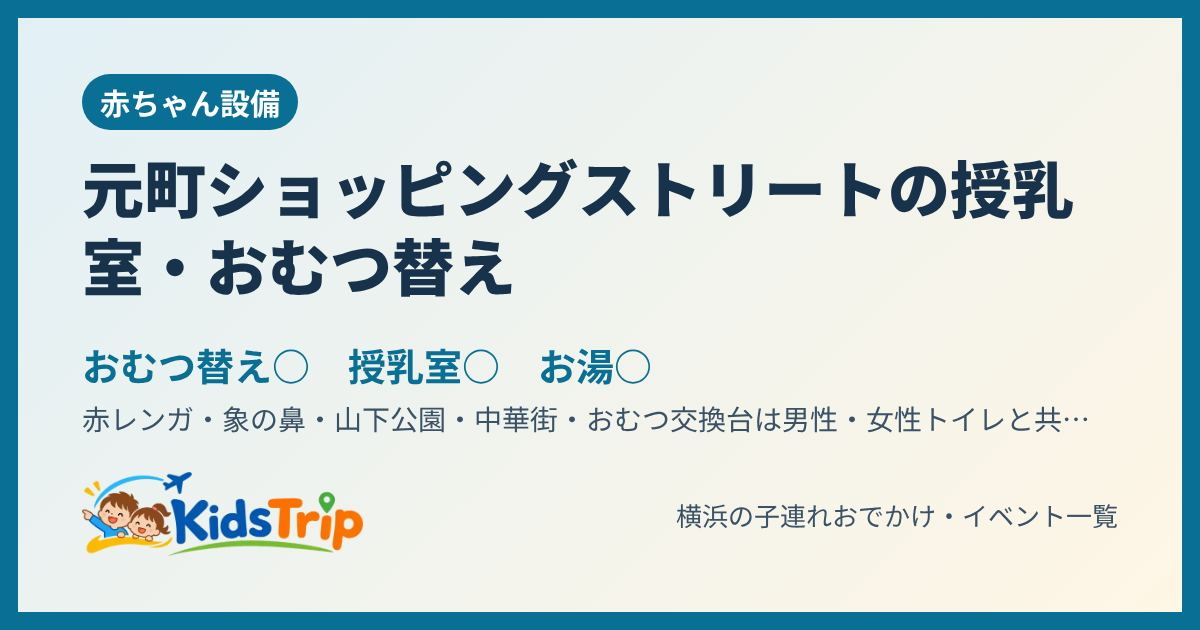
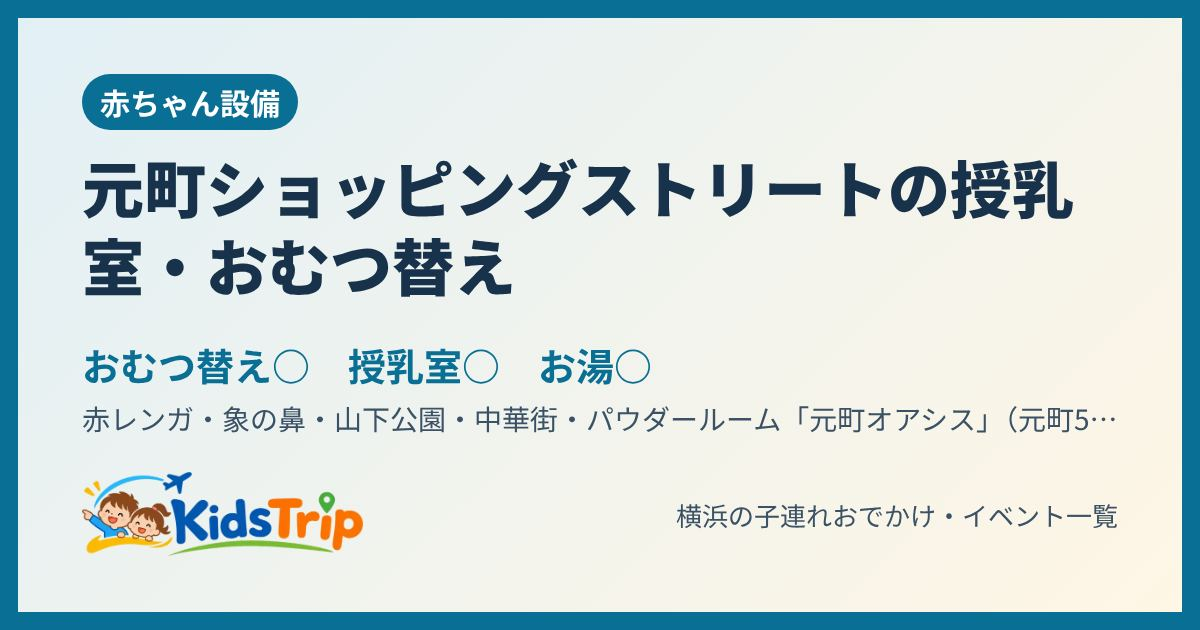
元町ショッピングストリート：元町オアシスの設備・場所・時間を公式で確認して差しかえ
Claude-Session: https://claude.ai/code/session_014AtJ2g3ghW1boxsW7syVwL

Changed region(s): [[0.4933, 0.6333, 0.925, 0.6937]]

diff --git a/spot/11yqwmv/index.html b/spot/11yqwmv/index.html
@@ -3,13 +3,13 @@
 <head>
 <meta charset="utf-8">
 <meta name="viewport" content="width=device-width, initial-scale=1">
-<title>元町ショッピングストリートの授乳室・おむつ替え・お湯｜KidsTrip</title>
-<meta name="description" content="元町ショッピングストリート（赤レンガ・象の鼻・山下公園・中華街）の授乳室・おむつ替えの場所：おむつ交換台は男性・女性トイレと共有スペースに計4台／授乳室2室。おむつ替え・授乳室・調乳のお湯あり。">
+<title>元町ショッピングストリートの授乳室は何階？おむつ替え・お湯｜KidsTrip</title>
+<meta name="description" content="元町ショッピングストリート（赤レンガ・象の鼻・山下公園・中華街）の授乳室・おむつ替えの場所：パウダールーム「元町オアシス」（元町5丁目 ラ・セルコート元町 2F・10:00〜20:00）：授乳室2室（女性専用1・男女兼用1）／おむつ替え4か所（女性専用2・男性専用1・男女兼用1）／調乳専用の浄水給湯">
 <link rel="canonical" href="https://kidstrip.jp/spot/11yqwmv/">
 <meta property="og:type" content="article">
 <meta property="og:site_name" content="KidsTrip">
-<meta property="og:title" content="元町ショッピングストリートの授乳室・おむつ替え・お湯｜KidsTrip">
-<meta property="og:description" content="元町ショッピングストリート（赤レンガ・象の鼻・山下公園・中華街）の授乳室・おむつ替えの場所：おむつ交換台は男性・女性トイレと共有スペースに計4台／授乳室2室。おむつ替え・授乳室・調乳のお湯あり。">
+<meta property="og:title" content="元町ショッピングストリートの授乳室は何階？おむつ替え・お湯｜KidsTrip">
+<meta property="og:description" content="元町ショッピングストリート（赤レンガ・象の鼻・山下公園・中華街）の授乳室・おむつ替えの場所：パウダールーム「元町オアシス」（元町5丁目 ラ・セルコート元町 2F・10:00〜20:00）：授乳室2室（女性専用1・男女兼用1）／おむつ替え4か所（女性専用2・男性専用1・男女兼用1）／調乳専用の浄水給湯">
 <meta property="og:url" content="https://kidstrip.jp/spot/11yqwmv/">
 <meta property="og:image" content="https://kidstrip.jp/og/spot-11yqwmv.jpg">
 <meta property="og:image:width" content="1200">
@@ -21,7 +21,7 @@
 <link rel="icon" href="../../img/favicon.png">
 <link rel="apple-touch-icon" href="../../img/apple-touch-icon.png">
 <script type="application/ld+json">{"@context": "https://schema.org", "@type": "BreadcrumbList", "itemListElement": [{"@type": "ListItem", "position": 1, "name": "トップ", "item": "https://kidstrip.jp/"}, {"@type": "ListItem", "position": 2, "name": "ごはん・おむつ", "item": "https://kidstrip.jp/#foodall"}, {"@type": "ListItem", "position": 3, "name": "元町ショッピングストリート"}]}</script>
-<script type="application/ld+json">{"@context": "https://schema.org", "@type": "Place", "name": "元町ショッピングストリート", "description": "元町ショッピングストリート（赤レンガ・象の鼻・山下公園・中華街）の授乳室・おむつ替えの場所：おむつ交換台は男性・女性トイレと共有スペースに計4台／授乳室2室。おむつ替え・授乳室・調乳のお湯あり。", "url": "https://kidstrip.jp/spot/11yqwmv/", "image": ["https://kidstrip.jp/og/spot-11yqwmv.jpg"], "address": {"@type": "PostalAddress", "addressLocality": "横浜市", "addressRegion": "神奈川県", "addressCountry": "JP"}, "amenityFeature": [{"@type": "LocationFeatureSpecification", "name": "おむつ替え", "value": true}, {"@type": "LocationFeatureSpecification", "name": "授乳室", "value": true}, {"@type": "LocationFeatureSpecification", "name": "調乳のお湯", "value": true}], "publicAccess": true, "sameAs": "https://www.welcome.city.yokohama.jp/accessibility/spot/details.php?sid=814", "hasMap": "https://www.google.com/maps/search/?api=1&query=元町ショッピングストリート"}</script>
+<script type="application/ld+json">{"@context": "https://schema.org", "@type": "Place", "name": "元町ショッピングストリート", "description": "元町ショッピングストリート（赤レンガ・象の鼻・山下公園・中華街）の授乳室・おむつ替えの場所：パウダールーム「元町オアシス」（元町5丁目 ラ・セルコート元町 2F・10:00〜20:00）：授乳室2室（女性専用1・男女兼用1）／おむつ替え4か所（女性専用2・男性専用1・男女兼用1）／調乳専用の浄水給湯", "url": "https://kidstrip.jp/spot/11yqwmv/", "image": ["https://kidstrip.jp/og/spot-11yqwmv.jpg"], "address": {"@type": "PostalAddress", "addressLocality": "横浜市", "addressRegion": "神奈川県", "addressCountry": "JP"}, "amenityFeature": [{"@type": "LocationFeatureSpecification", "name": "おむつ替え", "value": true}, {"@type": "LocationFeatureSpecification", "name": "授乳室", "value": true}, {"@type": "LocationFeatureSpecification", "name": "調乳のお湯", "value": true}], "publicAccess": true, "sameAs": "https://www.motomachi.or.jp/shop/motomachioasis/", "hasMap": "https://www.google.com/maps/search/?api=1&query=元町ショッピングストリート"}</script>
 <style>
 .gkcmp th[scope=row]{white-space:nowrap}.gkcmp td{font-size:.92em}
 .gk{list-style:none;padding:0}.gk li{border:1px solid #e5e5e5;border-radius:10px;padding:10px 12px;margin:8px 0;line-height:1.7}.gk h3{margin:0 0 2px;font-size:1.02em}
@@ -52,19 +52,19 @@ footer{margin:28px 0 8px;font-size:12px;color:var(--muted)}
 <h1>元町ショッピングストリートの授乳室・おむつ替え・お湯</h1>
 <table class="bm"><thead><tr><th>場所</th><th>おむつ替え</th><th>授乳室</th><th>お湯</th><th>レンジ</th></tr></thead><tbody><tr><th>元町ショッピングストリート</th><td class="y">○</td><td class="y">○</td><td class="y">○</td><td class="u">？</td></tr></tbody></table>
 <p class="legend">○ あり　× なし　？ 調べた範囲で確認できず</p>
-<table class="info"><tr><th>場所</th><td>おむつ交換台は男性・女性トイレと共有スペースに計4台／授乳室2室</td></tr><tr><th>エリア</th><td>赤レンガ・象の鼻・山下公園・中華街</td></tr></table>
-<ul class="chips"><li>乳幼児用いす付きの個室</li><li>男女別のバリアフリートイレ</li></ul>
-<p class="sum">調乳用のお湯あり。ベビーカーの貸出・預かりはないので持参で。</p>
-<p class="small">出典：横浜市観光情報サイト バリアフリー情報（2024年9月更新）</p>
-<div class="btns"><a class="btn main" data-act="official" href="https://www.welcome.city.yokohama.jp/accessibility/spot/details.php?sid=814" target="_blank" rel="noopener">公式ページで確認</a>
+<table class="info"><tr><th>場所</th><td>パウダールーム「元町オアシス」（元町5丁目 ラ・セルコート元町 2F・10:00〜20:00）：授乳室2室（女性専用1・男女兼用1）／おむつ替え4か所（女性専用2・男性専用1・男女兼用1）／調乳専用の浄水給湯器</td></tr><tr><th>エリア</th><td>赤レンガ・象の鼻・山下公園・中華街</td></tr></table>
+<ul class="chips"><li>授乳室は男女兼用の部屋もある（パパも使える）</li><li>調乳専用の浄水給湯器</li><li>多機能トイレ</li><li>乳幼児用いす付きの個室</li><li>フィッティングルーム</li></ul>
+<p class="sum">元町の通りの中ほど（5丁目）、ラ・セルコート元町の2Fにある「元町オアシス」に、授乳室・おむつ替え・調乳用のお湯がそろっている。授乳室とおむつ替えには男女兼用・男性専用もあるので、パパだけでも使える。10:00〜20:00（定休日は公式ページに記載なし）。電子レンジは公式ページに記載なし。ベビーカーの貸出・預かりはないので持参で（市のバリアフリー情報）。</p>
+<p class="small">出典：元町ショッピングストリート 公式（元町オアシス・2026年11月22日確認。利用者が送ったURL）。ベビーカーは横浜市観光情報サイト バリアフリー情報（2024年9月更新）</p>
+<div class="btns"><a class="btn main" data-act="official" href="https://www.motomachi.or.jp/shop/motomachioasis/" target="_blank" rel="noopener">公式ページで確認</a>
 <a class="btn" href="https://www.google.com/maps/search/?api=1&amp;query=元町ショッピングストリート" target="_blank" rel="noopener">地図で見る</a>
 <button type="button" class="btn" data-share="1">🔗 リンクを送る・コピー</button></div>
 </article>
-<h2>パパも使える？</h2><p><b>👨 男性トイレOK</b>　男性トイレ・共有スペースにもおむつ交換台あり</p>
-<h2>歩いて10分以内の子連れで入りやすいごはん</h2><ul class="links food"><li><b>中華街 桂宮（中華街大通り）</b>（中華）　ベビーカーで約7分<span class="tag">個室</span><span class="tag">子ども歓迎の接客</span></li><li><b>pignic cafe 横浜店（山下町）</b>（カフェ）　ベビーカーで約9分<span class="tag">キッズスペース（2歳以下無料）</span><span class="tag">ミルク用のお湯</span><span class="tag">子ども歓迎</span></li><li><b>THE WHARF HOUSE 山下公園</b>（ダイニング）　ベビーカーで約10分<span class="tag">キッズスペース</span><span class="tag">おもちゃの貸し出し</span><span class="tag">ベビーチェア</span></li></ul><p class="small">時間はベビーカーで歩いたときのめやす（直線距離から計算）。メニューや営業時間は行く前にお店で確かめてください。</p>
-<h2>歩いて15分以内でベビー服・子ども服・靴が買えるお店</h2><ul class="links food"><li><a href="https://www.24028.jp/tenpo/detail.php?cid=14&amp;doc=1307" target="_blank" rel="noopener">西松屋 ホームズ新山下店</a><span class="tag">ベビー・キッズ・子どもの靴</span>　10:00〜21:00　ベビーカーで約12分</li><li><a href="https://www.shimamura.gr.jp/shop/map_detail_0518.html" target="_blank" rel="noopener">しまむら ホームズ新山下店</a><span class="tag">取り扱いは公式で未確認</span>　10:00〜20:00　ベビーカーで約12分</li></ul><p class="small">急なおもらし・汚れの着替えや、靴を忘れたときに。時間は直線距離からのめやす。在庫・営業時間はお店で確かめてください（出典：各チェーン公式の店舗検索）。</p>
+<h2>パパも使える？</h2><p><b>👨 男性トイレOK</b>　元町オアシスにおむつ替えの男性専用・男女兼用があり、授乳室も男女兼用の部屋がある</p>
+<h2>歩いて10分以内の子連れで入りやすいごはん</h2><ul class="links food"><li><b>中華街 桂宮（中華街大通り）</b>（中華）　ベビーカーで約7分<span class="tag">個室</span><span class="tag">子ども歓迎の接客</span></li><li><b>pignic cafe 横浜店（山下町）</b>（カフェ）　ベビーカーで約9分<span class="tag">キッズスペース（2歳以下無料）</span><span class="tag">ミルク用のお湯</span><span class="tag">子ども歓迎</span></li></ul><p class="small">時間はベビーカーで歩いたときのめやす（直線距離から計算）。メニューや営業時間は行く前にお店で確かめてください。</p>
+
 <h2>同じエリアのほかの赤ちゃん設備</h2><table class="bm"><thead><tr><th>場所</th><th>おむつ替え</th><th>授乳室</th><th>お湯</th><th>レンジ</th></tr></thead><tbody><tr><th scope="row"><a href="/spot/1rkdk6a/">BASEGATE横浜関内</a></th><td class="y">○</td><td class="y">○</td><td class="y">○</td><td class="u">？</td></tr><tr><th scope="row"><a href="/spot/184ayrj/">ドン・キホーテ</a></th><td class="u">？</td><td class="u">？</td><td class="u">？</td><td class="n">×</td></tr><tr><th scope="row"><a href="/spot/gue82u/">アクアリウム宇宙旅行 UNDER WATER SPACE</a></th><td class="y">○</td><td class="y">○</td><td class="y">○</td><td class="u">？</td></tr><tr><th scope="row"><a href="/spot/1yijbwh/">外交官の家</a></th><td class="y">○</td><td class="y">○</td><td class="n">×</td><td class="u">？</td></tr><tr><th scope="row"><a href="/spot/jov9g8/">横浜ユーラシア文化館</a></th><td class="y">○</td><td class="y">○</td><td class="n">×</td><td class="u">？</td></tr><tr><th scope="row"><a href="/spot/qj2jy6/">横浜都市発展記念館</a></th><td class="y">○</td><td class="y">○</td><td class="n">×</td><td class="u">？</td></tr><tr><th scope="row"><a href="/spot/7kour8/">横浜市開港記念会館</a></th><td class="y">○</td><td class="y">○</td><td class="u">？</td><td class="u">？</td></tr><tr><th scope="row"><a href="/spot/co5mie/">横浜大世界</a></th><td class="y">○</td><td class="n">×</td><td class="u">？</td><td class="u">？</td></tr><tr><th scope="row"><a href="/spot/1bni2wb/">横浜スタジアム</a></th><td class="y">○</td><td class="y">○</td><td class="n">×</td><td class="u">？</td></tr><tr><th scope="row"><a href="/spot/aa2xc0/">横浜市イギリス館</a></th><td class="y">○</td><td class="n">×</td><td class="u">？</td><td class="u">？</td></tr><tr><th scope="row"><a href="/spot/r2jkwf/">山手資料館</a></th><td class="y">○</td><td class="n">×</td><td class="u">？</td><td class="u">？</td></tr><tr><th scope="row"><a href="/spot/buoer4/">山手234番館</a></th><td class="y">○</td><td class="y">○</td><td class="n">×</td><td class="u">？</td></tr><tr><th scope="row"><a href="/spot/1fg72i8/">山手111番館</a></th><td class="y">○</td><td class="n">×</td><td class="u">？</td><td class="u">？</td></tr><tr><th scope="row"><a href="/spot/3nvg5r/">エリスマン邸</a></th><td class="y">○</td><td class="n">×</td><td class="u">？</td><td class="u">？</td></tr><tr><th scope="row"><a href="/spot/6rifv7/">横浜税関 資料室</a></th><td class="y">○</td><td class="n">×</td><td class="u">？</td><td class="u">？</td></tr><tr><th scope="row"><a href="/spot/11zsskf/">横浜開港資料館</a></th><td class="y">○</td><td class="n">×</td><td class="u">？</td><td class="u">？</td></tr><tr><th scope="row"><a href="/spot/svcp0u/">放送ライブラリー</a></th><td class="y">○</td><td class="n">×</td><td class="u">？</td><td class="u">？</td></tr><tr><th scope="row"><a href="/spot/1udotm9/">ニュースパーク</a></th><td class="y">○</td><td class="n">×</td><td class="u">？</td><td class="u">？</td></tr><tr><th scope="row"><a href="/spot/1sxo28u/">日本郵船氷川丸</a></th><td class="y">○</td><td class="n">×</td><td class="n">×</td><td class="u">？</td></tr><tr><th scope="row"><a href="/spot/fpf3hr/">シルク博物館</a></th><td class="y">○</td><td class="n">×</td><td class="u">？</td><td class="u">？</td></tr><tr><th scope="row"><a href="/spot/1sptgqk/">神奈川県立歴史博物館</a></th><td class="y">○</td><td class="y">○</td><td class="n">×</td><td class="u">？</td></tr><tr><th scope="row"><a href="/spot/u3gyv7/">神奈川近代文学館</a></th><td class="y">○</td><td class="y">○</td><td class="n">×</td><td class="u">？</td></tr><tr><th scope="row"><a href="/spot/16gskoe/">神奈川県庁 本庁舎</a></th><td class="y">○</td><td class="y">○</td><td class="y">○</td><td class="u">？</td></tr><tr><th scope="row"><a href="/spot/1kec307/">ロイヤルウイング</a></th><td class="y">○</td><td class="y">○</td><td class="n">×</td><td class="u">？</td></tr><tr><th scope="row"><a href="/spot/1pgq843/">マリーンルージュ</a></th><td class="y">○</td><td class="n">×</td><td class="u">？</td><td class="u">？</td></tr><tr><th scope="row"><a href="/spot/hilv0a/">横浜港 大さん橋国際客船ターミナル</a></th><td class="y">○</td><td class="y">○</td><td class="n">×</td><td class="u">？</td></tr><tr><th scope="row"><a href="/spot/1ncpds8/">カップヌードルミュージアム 横浜</a></th><td class="y">○</td><td class="y">○</td><td class="y">○</td><td class="u">？</td></tr><tr><th scope="row"><a href="/spot/nsqtn/">横浜人形の家</a></th><td class="y">○</td><td class="n">×</td><td class="n">×</td><td class="u">？</td></tr><tr><th scope="row"><a href="/spot/12pvzvc/">横浜博覧館</a></th><td class="y">○</td><td class="n">×</td><td class="n">×</td><td class="u">？</td></tr><tr><th scope="row"><a href="/spot/1ikiitx/">MARINE &amp; WALK YOKOHAMA</a></th><td class="y">○</td><td class="y">○</td><td class="y">○</td><td class="u">？</td></tr><tr><th scope="row"><a href="/spot/18k2nx4/">横浜ワールドポーターズ</a></th><td class="y">○</td><td class="y">○</td><td class="y">○</td><td class="y">○</td></tr><tr><th scope="row"><a href="/spot/eizyq4/">横浜赤レンガ倉庫</a></th><td class="y">○</td><td class="y">○</td><td class="y">○</td><td class="u">？</td></tr><tr><th scope="row"><a href="/spot/su1u2h/">横浜ハンマーヘッド</a></th><td class="y">○</td><td class="y">○</td><td class="y">○</td><td class="u">？</td></tr><tr><th scope="row"><a href="/spot/1jpsbg5/">象の鼻テラス</a></th><td class="y">○</td><td class="n">×</td><td class="n">×</td><td class="u">？</td></tr><tr><th scope="row"><a href="/spot/xkhnmi/">横浜マリンタワー</a></th><td class="y">○</td><td class="y">○</td><td class="n">×</td><td class="u">？</td></tr><tr><th scope="row"><a href="/spot/1hgp91k/">THE WHARF HOUSE 山下公園</a></th><td class="y">○</td><td class="y">○</td><td class="y">○</td><td class="u">？</td></tr><tr><th scope="row"><a href="/spot/omd360/">横浜中華街</a></th><td class="y">○</td><td class="n">×</td><td class="u">？</td><td class="u">？</td></tr><tr><th scope="row"><a href="/spot/d63d8s/">のんびりんこ</a></th><td class="y">○</td><td class="y">○</td><td class="y">○</td><td class="y">○</td></tr></tbody></table><p class="legend">○ あり　× なし　？ 調べた範囲で確認できず</p>
-<h2>歩いて15分くらいで行けるイベント・遊び場</h2><ul class="links"><li><a href="/event/18wsz1k/">横浜元町イルミネーション2026（クリスマスイルミネーション）</a>（会期 11/4〜12/25）</li><li><a href="/event/1qoibpt/">横浜山手西洋館「世界のクリスマス2026」</a>（会期 12/1〜12/25）</li><li><a href="/event/1ae73lb/">Winter Wonder Park Yokohama 2026-27（山下公園のスケートリンク）</a>（12月5日(土)・12月6日(日)・12月12日(土)・12）</li><li><a href="/event/1w3yj6l/">みんなのインクルーシブスポーツ（中区）</a>（12月4日(金)）</li></ul>
+<h2>歩いて15分くらいで行けるイベント・遊び場</h2><ul class="links"><li><a href="/event/1qoibpt/">横浜山手西洋館「世界のクリスマス2026」</a>（会期 12/1〜12/25）</li><li><a href="/event/18wsz1k/">横浜元町イルミネーション2026（クリスマスイルミネーション）</a>（会期 11/4〜12/25）</li><li><a href="/event/1ae73lb/">Winter Wonder Park Yokohama 2026-27（山下公園のスケートリンク）</a>（12月5日(土)・12月6日(日)・12月12日(土)・12）</li><li><a href="/event/vfp5ha/">BALLPARK Xmas YOKOHAMA KANNAI 2026</a>（会期 11/20〜12/25）</li><li><a href="/event/x0mfmo/">パウ・パトロールのクイズラリー＆マーシャルのグリーティング（BALLPARK Xmas）</a>（12月5日(土)・12月6日(日)）</li></ul>
 <h2>このあたりのイベント</h2><ul class="links"><li><a href="/event/d1dgxr/">横浜ナイトフラワーズ（花火）</a>（12月12日(土)・12月24日(木)・12月31日(木)）</li><li><a href="/event/knt8ey/">THE MOVEUM YOKOHAMA「印象派モネと浮世絵」</a>（会期 2026/10/24〜2027/3/31（11/15・）</li><li><a href="/event/1f8g2ou/">放送30周年記念「名探偵コナン」展</a>（会期 11/14〜12/6）</li><li><a href="/event/1jksbow/">2027春節燈花（中華街イルミネーション）</a>（会期 11/1〜2027/2/20）</li><li><a href="/event/1ufdrdz/">第19回 美食節 横濵中華街フードフェスティバル</a>（会期 11/1〜11/30）</li><li><a href="/event/po3rvu/">かえるのピクルス スタンプラリーin横浜 2026</a>（会期 11/1〜12/25）</li><li><a href="/event/7jbl4a/">ミナトノアート2026</a>（会期 11/6〜11/23）</li><li><a href="/event/4jm8mx/">都市伝説解体センター×横浜マリンタワー 謎解きラリー</a>（会期 11/2〜11/23）</li><li><a href="/event/n8lv8i/">開館40周年記念展「横浜人形の家 建築と記憶」</a>（会期 9/5〜11/23）</li><li><a href="/event/19b2g5g/">みなとみらい熱気球係留搭乗体験会</a>（11月22日(日)）</li></ul>
 
 <footer><p>KidsTrip（キッズトリップ）横浜の子連れおでかけ・イベント一覧。施設・主催者の公式情報などをもとに要約しています。内容は変わることがあるので、出かける前に必ず公式ページで確認してください。</p>

diff --git a/js/data.js b/js/data.js
@@ -529,8 +529,8 @@ const BABY = {
       note:"調乳用のお湯は、市の一覧には載っていないので公式で確かめてください。", url:"https://www.welcome.city.yokohama.jp/accessibility/spot/details.php?sid=64", src:"横浜市観光情報サイト バリアフリー情報（施設一覧・2026年11月確認）" },
     { n:"横浜開港資料館", where:"おむつ交換台あり／授乳室なし", d:true, f:false, w:null, ex:[],
       note:"調乳用のお湯は、市の一覧には載っていないので公式で確かめてください。", url:"https://www.welcome.city.yokohama.jp/accessibility/spot/details.php?sid=60", src:"横浜市観光情報サイト バリアフリー情報（施設一覧・2026年11月確認）" },
-    { n:"元町ショッピングストリート", where:"おむつ交換台は男性・女性トイレと共有スペースに計4台／授乳室2室", d:true, f:true, w:true, ex:["乳幼児用いす付きの個室","男女別のバリアフリートイレ"],
-      note:"調乳用のお湯あり。ベビーカーの貸出・預かりはないので持参で。", url:"https://www.welcome.city.yokohama.jp/accessibility/spot/details.php?sid=814", src:"横浜市観光情報サイト バリアフリー情報（2024年9月更新）" },
+    { n:"元町ショッピングストリート", where:"パウダールーム「元町オアシス」（元町5丁目 ラ・セルコート元町 2F・10:00〜20:00）：授乳室2室（女性専用1・男女兼用1）／おむつ替え4か所（女性専用2・男性専用1・男女兼用1）／調乳専用の浄水給湯器", d:true, f:true, w:true, ex:["授乳室は男女兼用の部屋もある（パパも使える）","調乳専用の浄水給湯器","多機能トイレ","乳幼児用いす付きの個室","フィッティングルーム"],
+      note:"元町の通りの中ほど（5丁目）、ラ・セルコート元町の2Fにある「元町オアシス」に、授乳室・おむつ替え・調乳用のお湯がそろっている。授乳室とおむつ替えには男女兼用・男性専用もあるので、パパだけでも使える。10:00〜20:00（定休日は公式ページに記載なし）。電子レンジは公式ページに記載なし。ベビーカーの貸出・預かりはないので持参で（市のバリアフリー情報）。", url:"https://www.motomachi.or.jp/shop/motomachioasis/", src:"元町ショッピングストリート 公式（元町オアシス・2026年11月22日確認。利用者が送ったURL）。ベビーカーは横浜市観光情報サイト バリアフリー情報（2024年9月更新）" },
     { n:"放送ライブラリー", where:"おむつ交換台あり／授乳室なし", d:true, f:false, w:null, ex:[],
       note:"調乳用のお湯は、市の一覧には載っていないので公式で確かめてください。", url:"https://www.welcome.city.yokohama.jp/accessibility/spot/details.php?sid=7", src:"横浜市観光情報サイト バリアフリー情報（施設一覧・2026年11月確認）" },
     { n:"ニュースパーク（日本新聞博物館）", where:"おむつ交換台あり／授乳室なし", d:true, f:false, w:null, ex:[],
@@ -810,7 +810,7 @@ const VENUE_GEO = [
   [/開港資料館|LOCAL BOOK STORE/, [35.4467,139.6430]], [/山手西洋館|山手イタリア山/, [35.4380,139.6490]]
 ];
 const SPOT_GEO = {
-  "ミオカ・リスト館（上大岡駅前）":[35.4088,139.5958], "港北みなも（センター南）":[35.5462,139.5772], "横浜市役所（桜木町駅前）":[35.4513,139.6333], "横浜ポルタ（横浜駅東口の地下街）":[35.4655,139.6240], "横浜ビブレ（横浜駅西口）":[35.4650,139.6200], "ヨドバシ横浜（横浜駅西口）":[35.4668,139.6205], "横浜スカイビル（横浜駅東口）":[35.4632,139.6250], "シァル横浜（横浜駅ビル）":[35.4660,139.6225], "シァル桜木町（桜木町駅直結）":[35.4510,139.6312], "CIAL鶴見（JR鶴見駅ビル）":[35.5078,139.6765], "BASEGATE横浜関内（関内駅前）":[35.4432,139.6400], "シァルプラット東神奈川（JR東神奈川駅ビル）":[35.4783,139.6327],
+  "ミオカ・リスト館（上大岡駅前）":[35.4088,139.5958], "港北みなも（センター南）":[35.5462,139.5772], "横浜市役所（桜木町駅前）":[35.4513,139.6333], "横浜ポルタ（横浜駅東口の地下街）":[35.4655,139.6240], "横浜ビブレ（横浜駅西口）":[35.4650,139.6200], "ヨドバシ横浜（横浜駅西口）":[35.4668,139.6205], "横浜スカイビル（横浜駅東口）":[35.4632,139.6250], "シァル横浜（横浜駅ビル）":[35.4660,139.6225], "シァル桜木町（桜木町駅直結）":[35.4510,139.6312], "CIAL鶴見（JR鶴見駅ビル）":[35.5078,139.6765], "元町ショッピングストリート":[35.4397,139.6465], "BASEGATE横浜関内（関内駅前）":[35.4432,139.6400], "シァルプラット東神奈川（JR東神奈川駅ビル）":[35.4783,139.6327],
   "MARK IS みなとみらい":[35.4575,139.6330], "横浜ランドマークプラザ":[35.4552,139.6318], "コレットマーレ（桜木町駅前）":[35.4515,139.6302], "みなとみらい東急スクエア":[35.4565,139.6338], "横浜アンパンマンこどもミュージアム":[35.4635,139.6300],
   "横浜赤レンガ倉庫":[35.4527,139.6430], "MARINE & WALK YOKOHAMA":[35.4548,139.6433], "横浜ハンマーヘッド":[35.4575,139.6440], "象の鼻テラス":[35.4507,139.6418],
   "横浜マリンタワー":[35.4440,139.6510], "THE WHARF HOUSE 山下公園":[35.4458,139.6502], "横浜中華街":[35.4425,139.6460],
@@ -837,7 +837,7 @@ const PAPA = {
   "ロイヤルウイング（レストラン船）": { v:"women", t:"おむつ交換台は女性トイレだけ（2台）", src:"横浜市観光情報 バリアフリー情報（2024年9月更新）" },
   "横浜市大倉山記念館": { v:"multi", t:"おむつ交換台は男女共用トイレ（だれでも入れる）", src:"横浜市観光情報 バリアフリー情報（2024年9月更新）" },
   "あーすぷらざ（本郷台）": { v:"multi", t:"おむつ交換台はバリアフリートイレ（だれでも入れる）", src:"横浜市観光情報 バリアフリー情報（2024年9月更新）" },
-  "元町ショッピングストリート": { v:"men", t:"男性トイレ・共有スペースにもおむつ交換台あり", src:"横浜市観光情報 バリアフリー情報（2024年9月更新）" },
+  "元町ショッピングストリート": { v:"men", t:"元町オアシスにおむつ替えの男性専用・男女兼用があり、授乳室も男女兼用の部屋がある", src:"元町ショッピングストリート 公式（元町オアシス・2026年11月）" },
   "野毛山動物園": { v:"men", t:"男性トイレ・バリアフリートイレにもおむつ交換台あり", src:"横浜市観光情報 バリアフリー情報（2026年8月更新）" },
   "パシフィコ横浜": { v:"men", t:"男性トイレにもおむつ交換台あり（男女で14台）", src:"横浜市観光情報 バリアフリー情報（2024年11月更新）" },
   "はまぎん こども宇宙科学館（洋光台）": { v:"multi", t:"多目的トイレにおむつ交換台3台（だれでも入れる）", src:"横浜市観光情報 バリアフリー情報（2024年9月更新）" },

diff --git a/index.html b/index.html
@@ -754,7 +754,7 @@ section[id], div[id="events"] { scroll-margin-top: 56px; }
   </footer>
 </div>
 
-<script src="js/data.js?v=3aa81290ea" defer></script>
+<script src="js/data.js?v=b65ca2c944" defer></script>
 <script src="js/app.js?v=1e28e73a7b" defer></script>
 </body>
 </html>

diff --git a/tools/runs.md b/tools/runs.md
@@ -61,3 +61,4 @@
 | 2026-11-22 | 夕方の確認 | 16:41〜16:42 | 1 | 未発表・見込みのイベントは今日〜来週末になし。ららぽーと・トレッサ・ノースポート・ランドマーク・クイーンズ・コレットマーレ・八景島を見たが、新しい親子向けイベントは見つからず（すでに掲載済み）。変更なし |
 | 2026-11-22 | 利用者との作業 | 17:02〜17:02 | 3 | 横浜赤レンガ倉庫：授乳室（2号館2F 海側バルコニー出入口前）・ベビーシート・ベビーカー貸出を公式フロアガイドで確認して差しかえ（利用者が送ったURL） |
 | 2026-11-22 | 利用者との作業 | 18:27〜18:27 | 3 | BASEGATE横浜関内を赤ちゃん設備に追加（ザ レガシー1F ベビールーム・多目的トイレ。公式の施設・サービスページ、利用者が送ったURL） |
+| 2026-11-22 | 利用者との作業 | 22:08〜22:08 | 3 | 元町ショッピングストリート：元町オアシス（ラ・セルコート元町2F）の授乳室・おむつ替え・給湯器・時間を公式で確認して差しかえ（利用者が送ったURL） |
